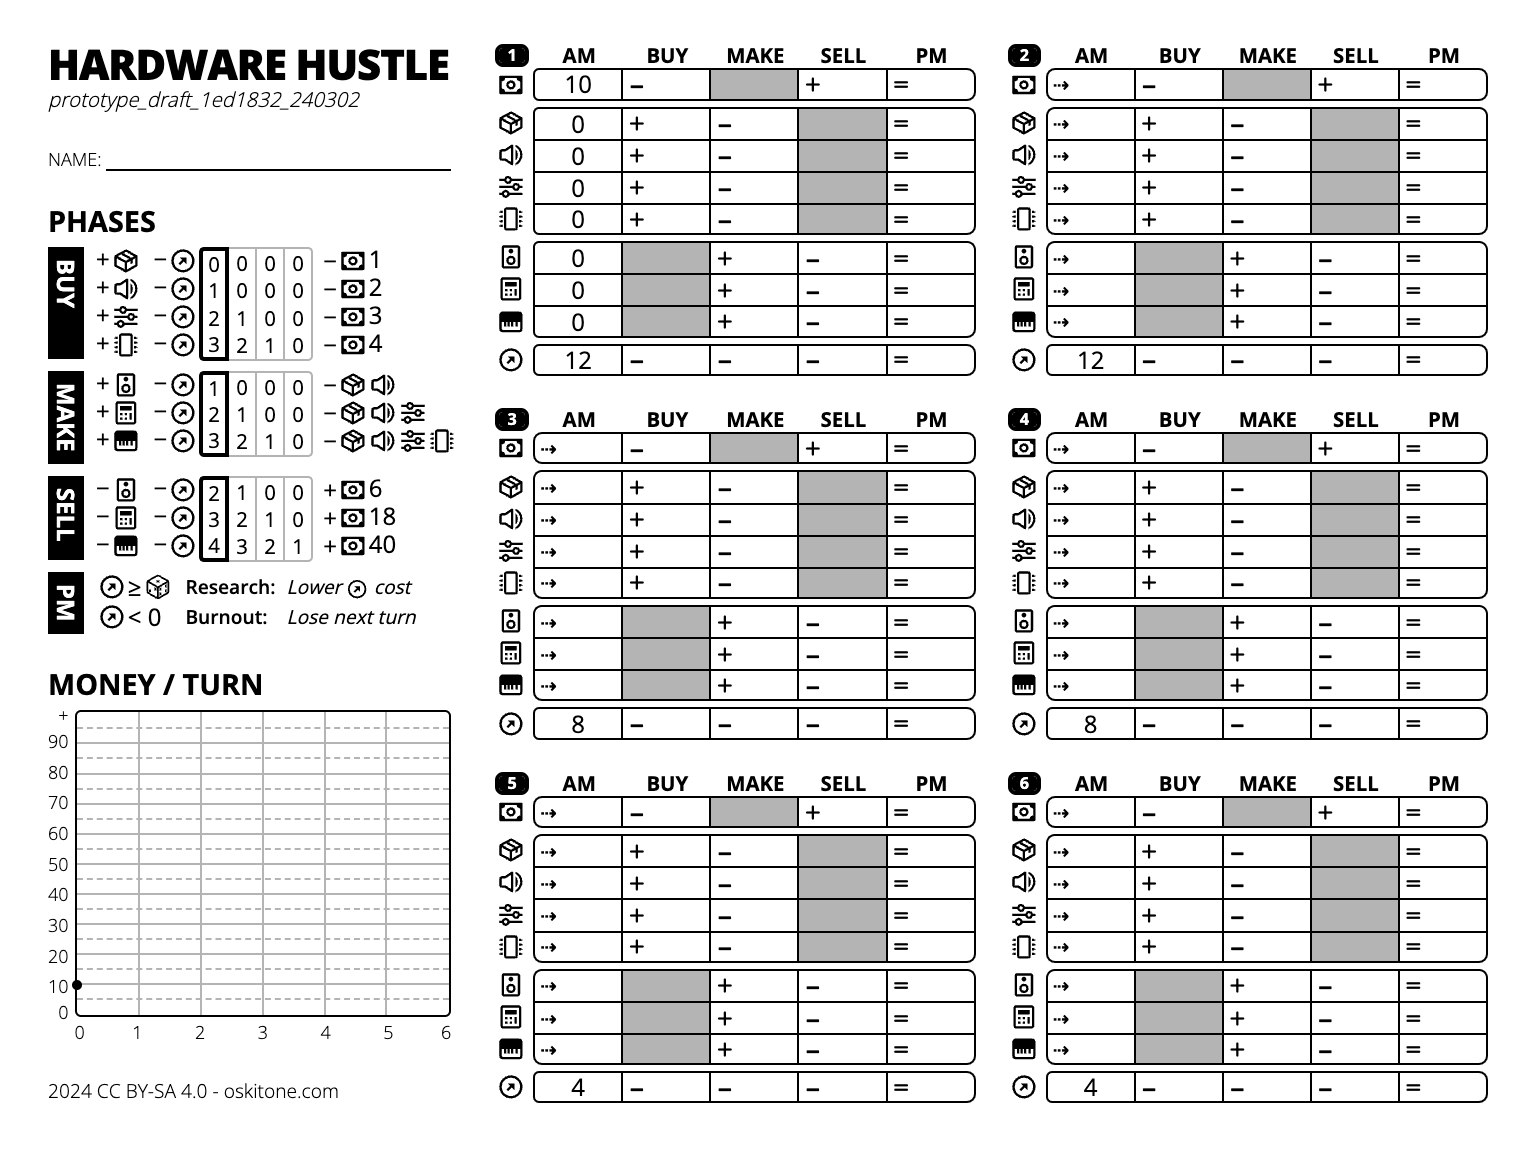
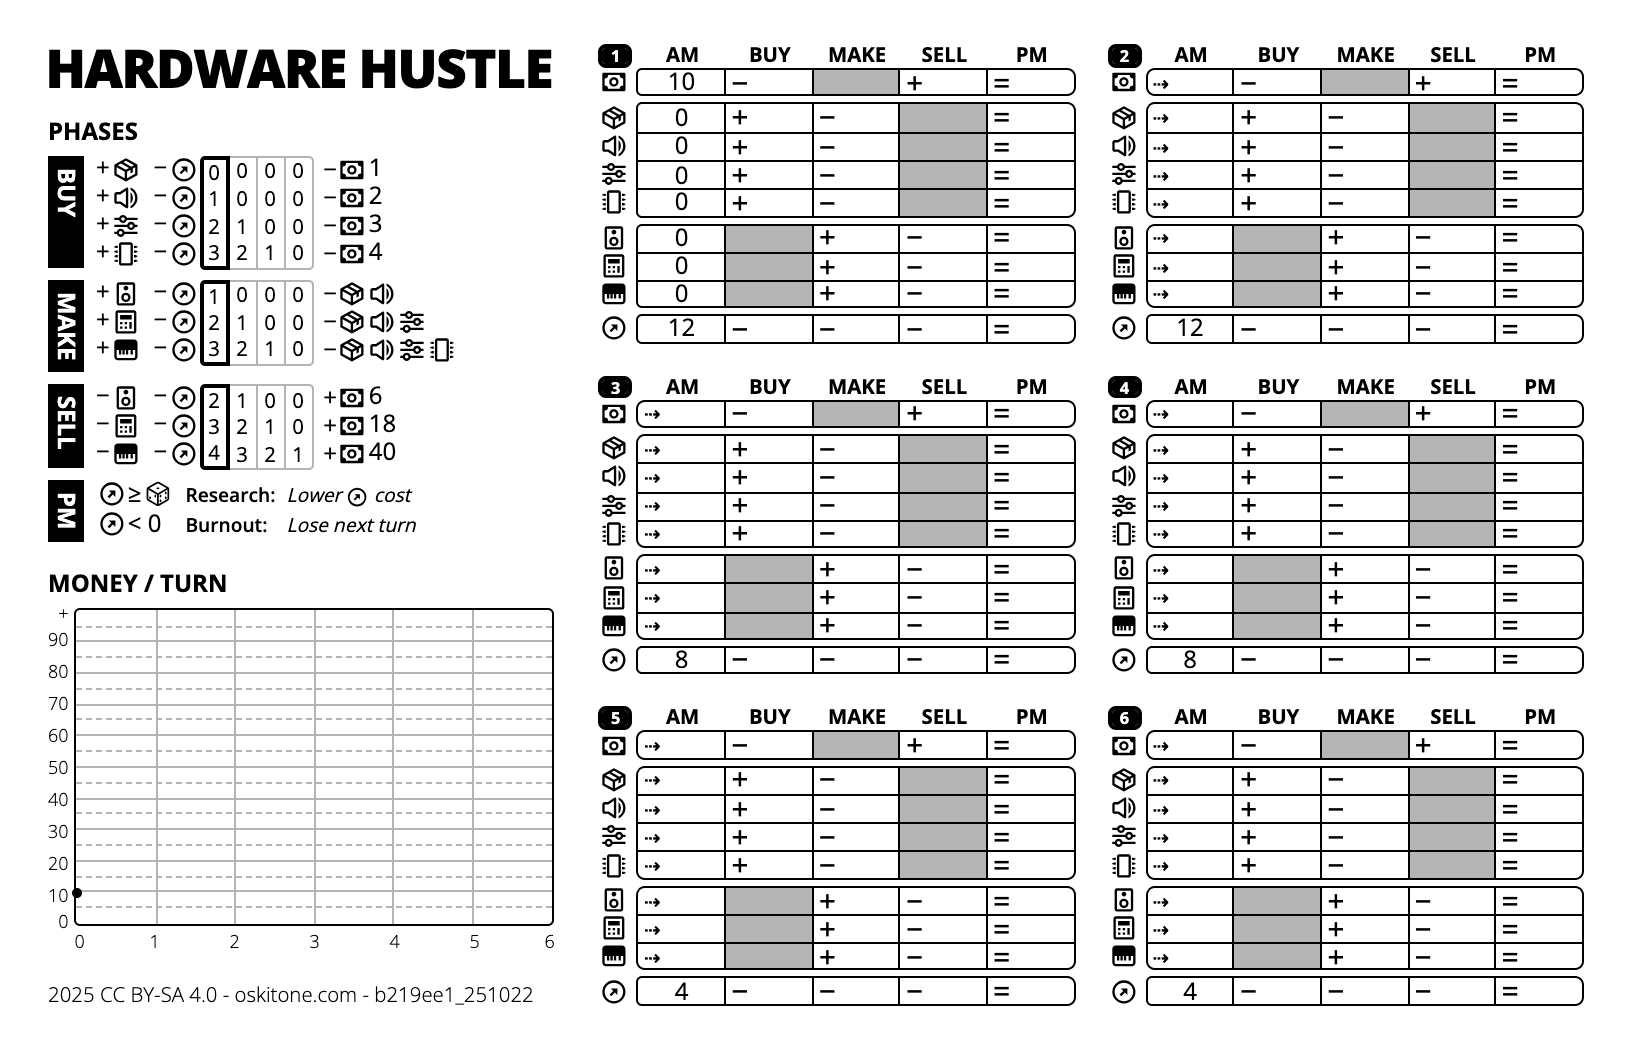
Reduce rules to 8 pages
and intelligently fill booklet with roll panels

Changed region(s): [[0.0312, 0.0312, 0.9688, 0.9688]]

diff --git a/components/booklet.js b/components/booklet.js
@@ -14,7 +14,7 @@ function Booklet({
   zine,
 
   rulesPanelsCount,
-  rollTablePanelsCount,
+  rollTablePanelsMinCount,
   gameSheetPanels,
 
   panelsPerPageSide,
@@ -51,6 +51,23 @@ function Booklet({
     return key % 2 == 0 ? "left" : "right";
   };
 
+  const rollTablePanelsAfterRules =
+    gameSheetPanels > 0 ? (rulesPanelsCount + 1) % 2 : 0;
+  const rollTablePanelsAfterGameSheets = Math.max(
+    0,
+    rollTablePanelsMinCount - rollTablePanelsAfterRules
+  );
+  const rollTablePanelsAtEnd =
+    (rulesPanelsCount +
+      rollTablePanelsAfterRules +
+      gameSheetPanels +
+      rollTablePanelsAfterGameSheets) %
+    2;
+  const rollTablePanelsCount =
+    rollTablePanelsAfterRules +
+    rollTablePanelsAfterGameSheets +
+    rollTablePanelsAtEnd;
+
   const panels = [
     ...range(rulesPanelsCount).map((panelId, key) => (
       <Panel booklet={true} key={key}>
@@ -64,6 +81,11 @@ function Booklet({
         />
       </Panel>
     )),
+    ...range(rollTablePanelsAfterRules).map((key) => (
+      <Panel booklet={true} key={key}>
+        <RollTable />
+      </Panel>
+    )),
     ...range(gameSheetPanels).map((key) => (
       <GameSheetBookletPanel
         key={rulesPanelsCount + key}
@@ -72,8 +94,13 @@ function Booklet({
         side={getGameSheetBookletPanelSide(key)}
       />
     )),
-    ...range(rollTablePanelsCount).map((key) => (
-      <Panel booklet={true} key={rulesPanelsCount + rollTablePanelsCount + key}>
+    ...range(rollTablePanelsAfterGameSheets).map((key) => (
+      <Panel booklet={true} key={key}>
+        <RollTable />
+      </Panel>
+    )),
+    ...range(rollTablePanelsAtEnd).map((key) => (
+      <Panel booklet={true} key={key}>
         <RollTable />
       </Panel>
     )),
@@ -101,11 +128,9 @@ Booklet.defaultProps = {
   /*
   For proper layout:
     * gameSheetPanels must be a multiple of 2
-    * Both rulesPanelsCount and gameSheetPanels must be odd
-    * Sum of all three is multiple of 4 but ideally 8 to fill paper
   */
-  rulesPanelsCount: 9,
-  rollTablePanelsCount: 3,
+  rulesPanelsCount: 8,
+  rollTablePanelsMinCount: 0,
   gameSheetPanels: 0,
 
   panelsPerPageSide: 4,

diff --git a/pages/zine.js b/pages/zine.js
@@ -21,14 +21,13 @@ const RulesPage = ({ year, draftId }) => {
         <link rel="icon" href="/favicon.ico" />
         <style>{`@page { size: ${pageDimensions}; }`}</style>
       </Head>
-      <main className={`${font.className}`}>
+      <main className={font.className}>
         <Booklet
           year={year}
           draftId={draftId}
           zine={true}
-          rulesPanelsCount={9}
-          rollTablePanelsCount={1}
-          gameSheetPanels={14}
+          rollTablePanelsMinCount={1}
+          gameSheetPanels={6}
         />
       </main>
     </>

diff --git a/styles/globals.css b/styles/globals.css
@@ -19,7 +19,7 @@
   /* Eyeballed to fill pages and fit layout */
   /* NOTE: minimum width elements will break layout:
     PhasesTable, Turn, URL or other long words */
-  --rules-font-size: 9.1px;
+  --rules-font-size: 8.5px;
   --rules-small-font-size: 7px;
 }
 

diff --git a/styles/Rules.module.css b/styles/Rules.module.css
@@ -9,7 +9,7 @@
   font-size: var(--rules-font-size);
 
   /* Don't remove! Explicitly set for screen/print consistency! */
-  line-height: 1.35;
+  line-height: 1.34;
 
   position: relative;
 
